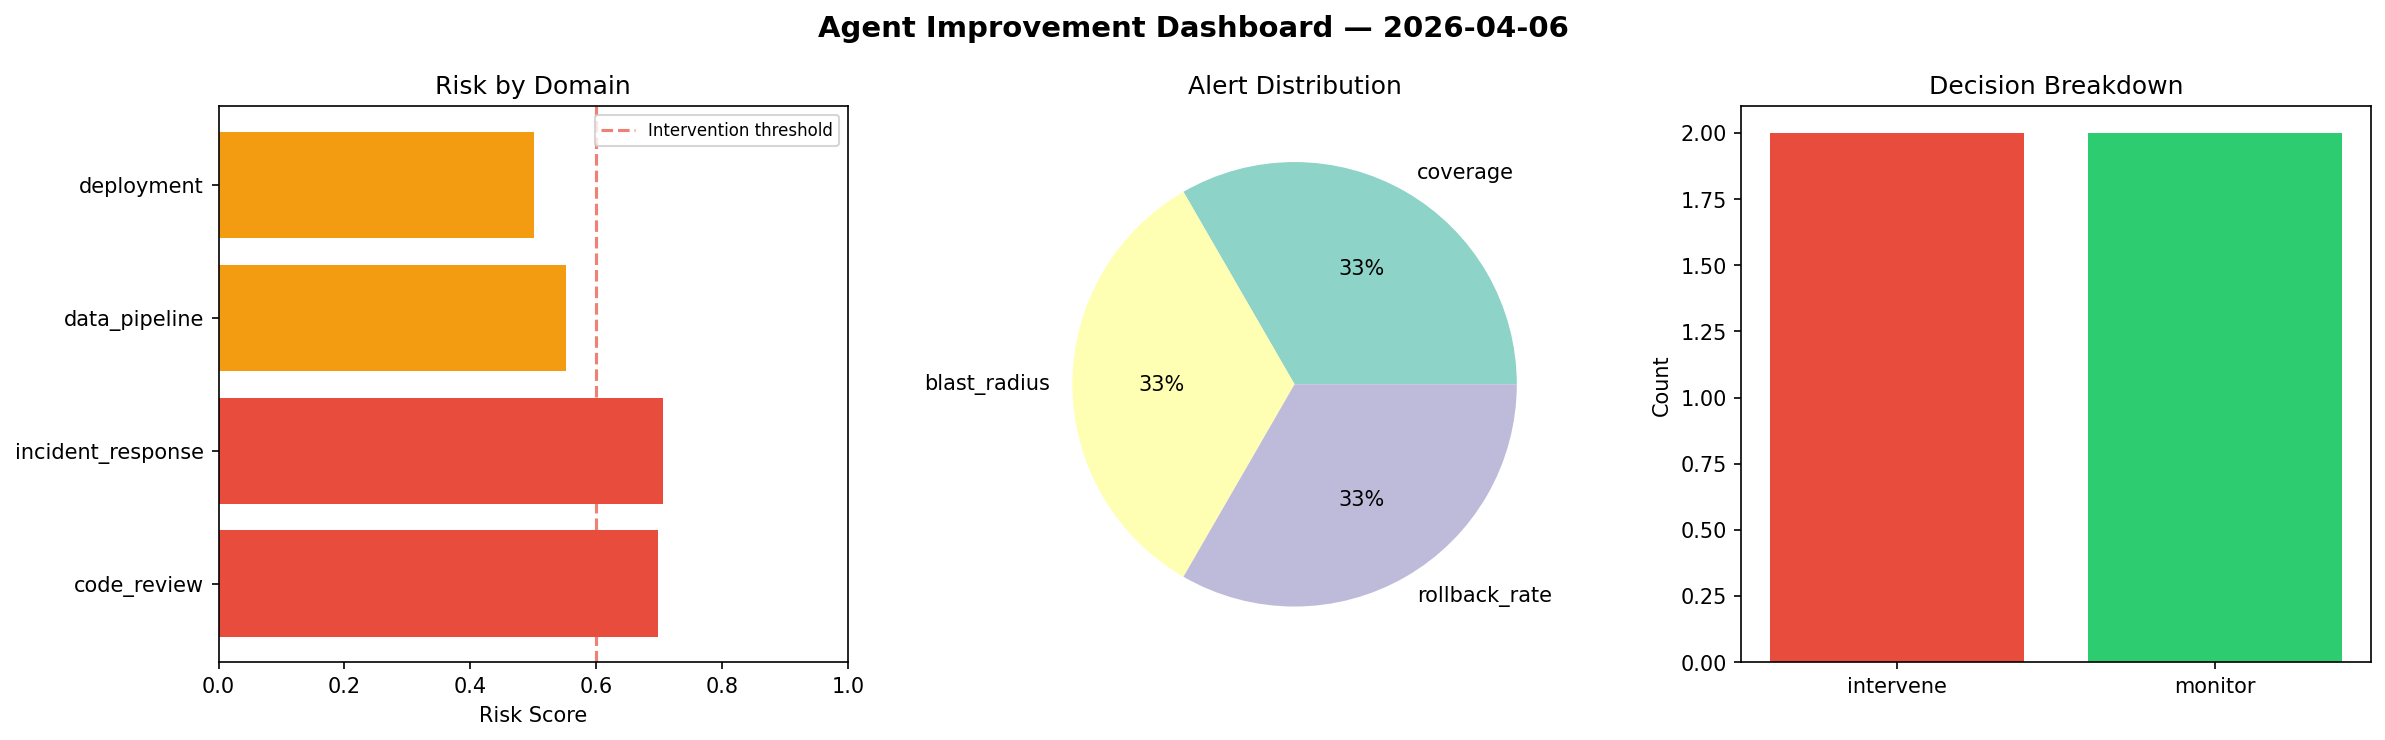
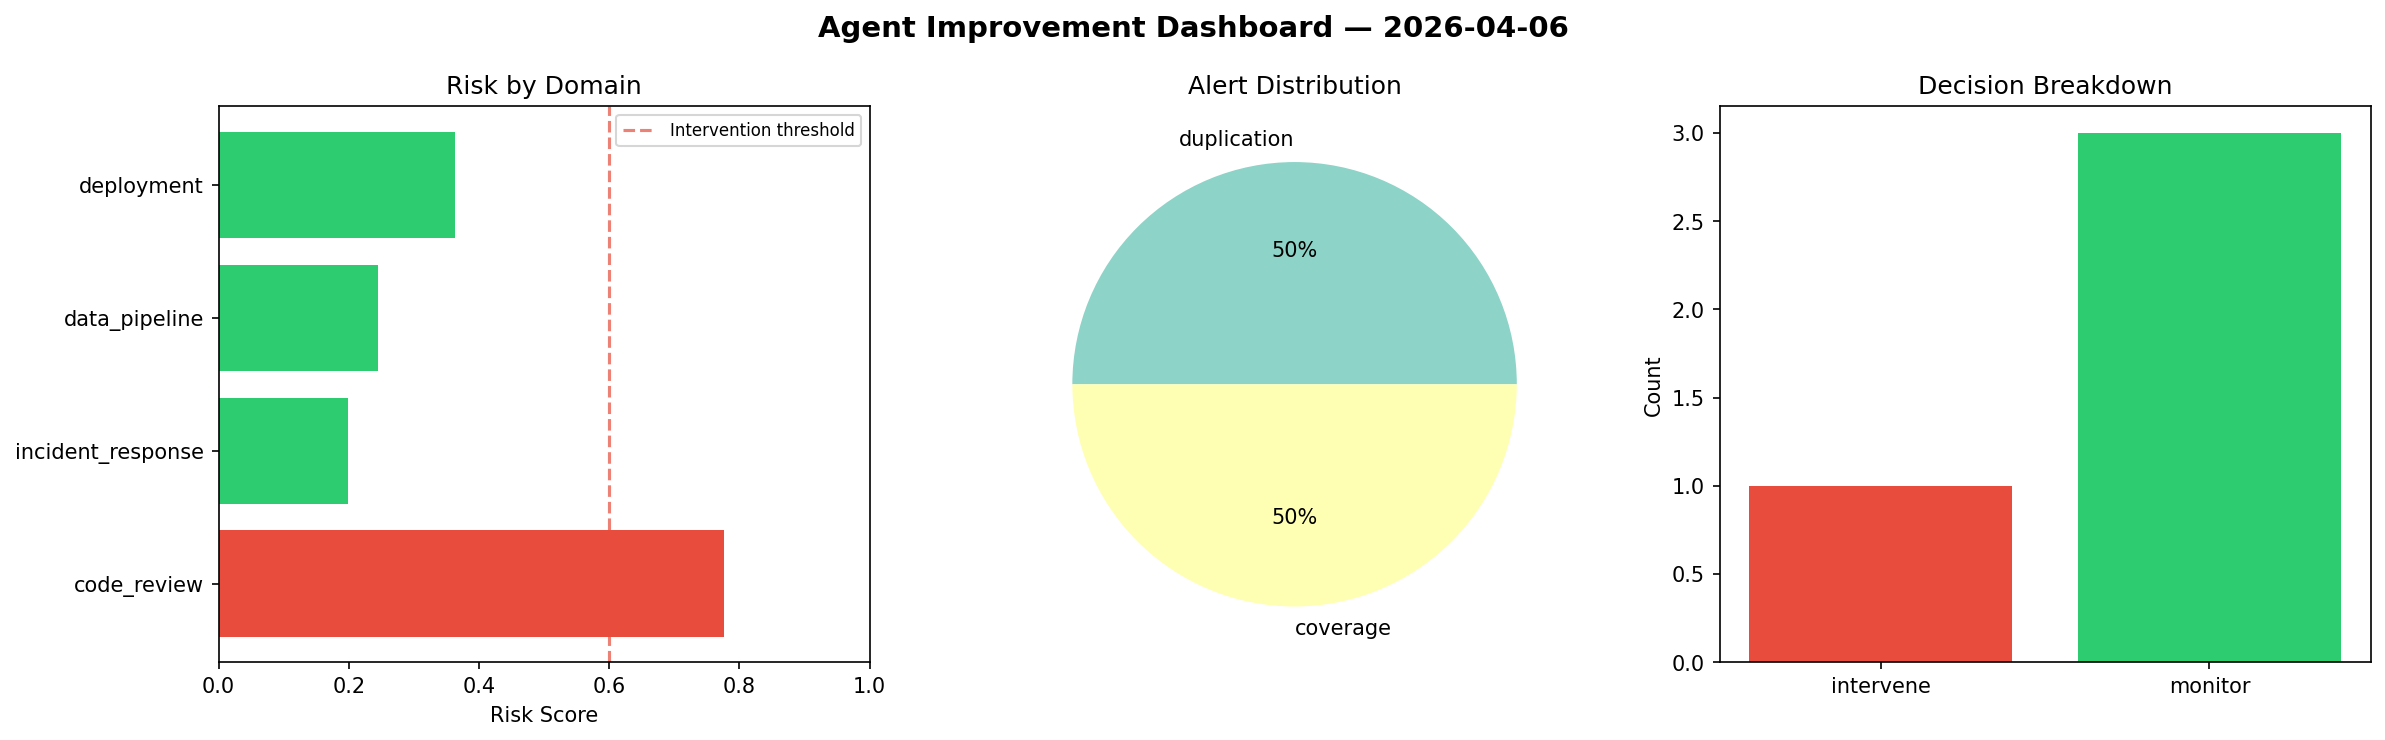
agent-improvement: daily cycle 2026-04-06T20:54

diff --git a/logs/2026-04-06.md b/logs/2026-04-06.md
@@ -1,6 +1,6 @@
 # Agent Improvement Report — 2026-04-06
 
-**Cycle ID:** `e8fa9adc` | **Avg Risk:** 0.6147 | **Interventions:** 2/4
+**Cycle ID:** `26a58a63` | **Avg Risk:** 0.3957 | **Interventions:** 1/4
 
 ![Dashboard](2026-04-06_dashboard.png)
 
@@ -10,18 +10,18 @@
 
 | Domain | Risk Score | Decision | Alerts |
 |--------|-----------|----------|--------|
-| code_review | 0.6988 | intervene | coverage |
-| incident_response | 0.7064 | intervene | blast_radius |
-| data_pipeline | 0.5528 | monitor | none |
-| deployment | 0.5006 | monitor | rollback_rate |
+| code_review | 0.7764 | intervene | duplication, coverage |
+| incident_response | 0.1984 | monitor | none |
+| data_pipeline | 0.2445 | monitor | none |
+| deployment | 0.3633 | monitor | none |
 
 ## Delta vs Yesterday
 
 | Domain | Today | Yesterday | Change |
 |--------|-------|-----------|--------|
-| code_review | 0.6988 | 0.8512 | 📉 -17.9% |
-| incident_response | 0.7064 | 0.4143 | 📈 70.5% |
-| data_pipeline | 0.5528 | 0.4271 | 📈 29.4% |
-| deployment | 0.5006 | 0.7749 | 📉 -35.4% |
+| code_review | 0.7764 | 0.8512 | 📉 -8.8% |
+| incident_response | 0.1984 | 0.4143 | 📉 -52.1% |
+| data_pipeline | 0.2445 | 0.4271 | 📉 -42.8% |
+| deployment | 0.3633 | 0.7749 | 📉 -53.1% |
 
 **Refinement:** `{'adjustment': 'maintain', 'trend': 'improving', 'window': 4}`
